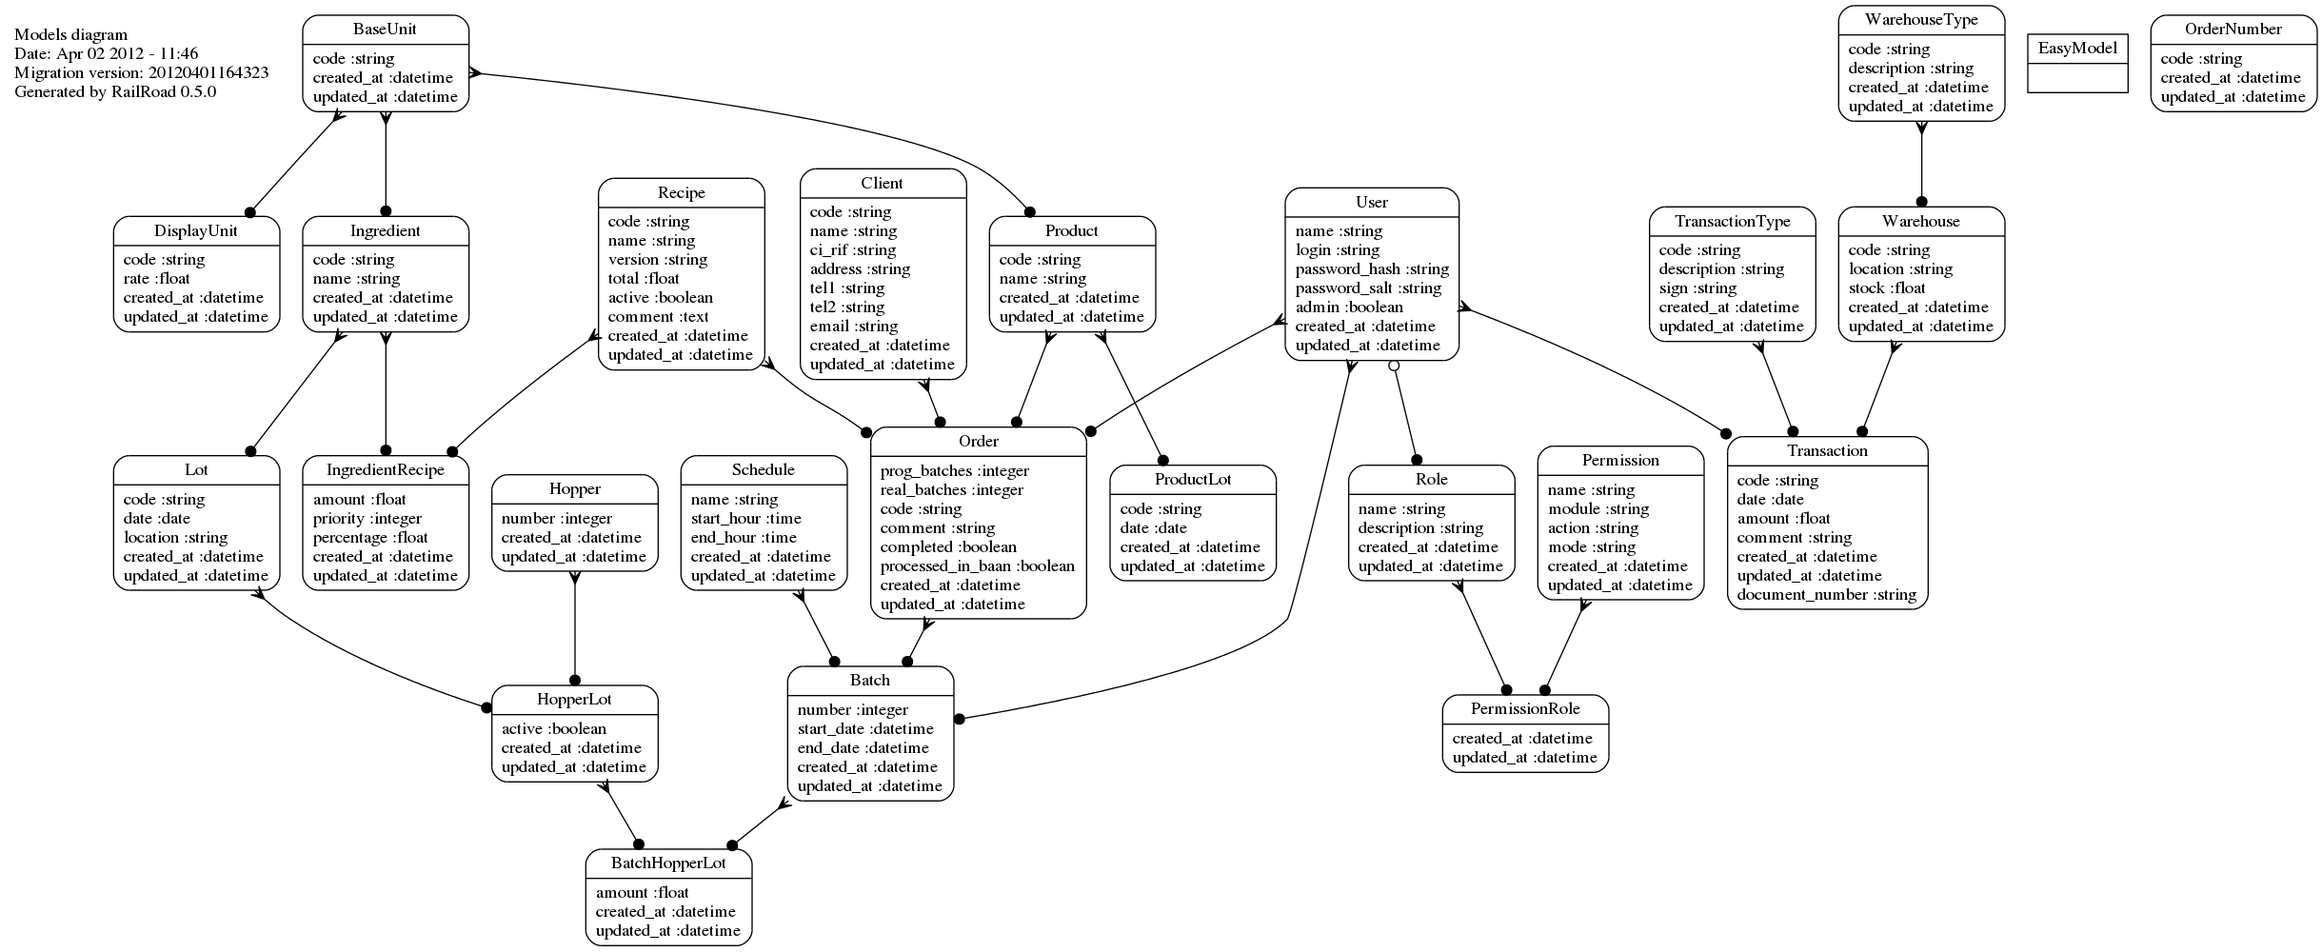
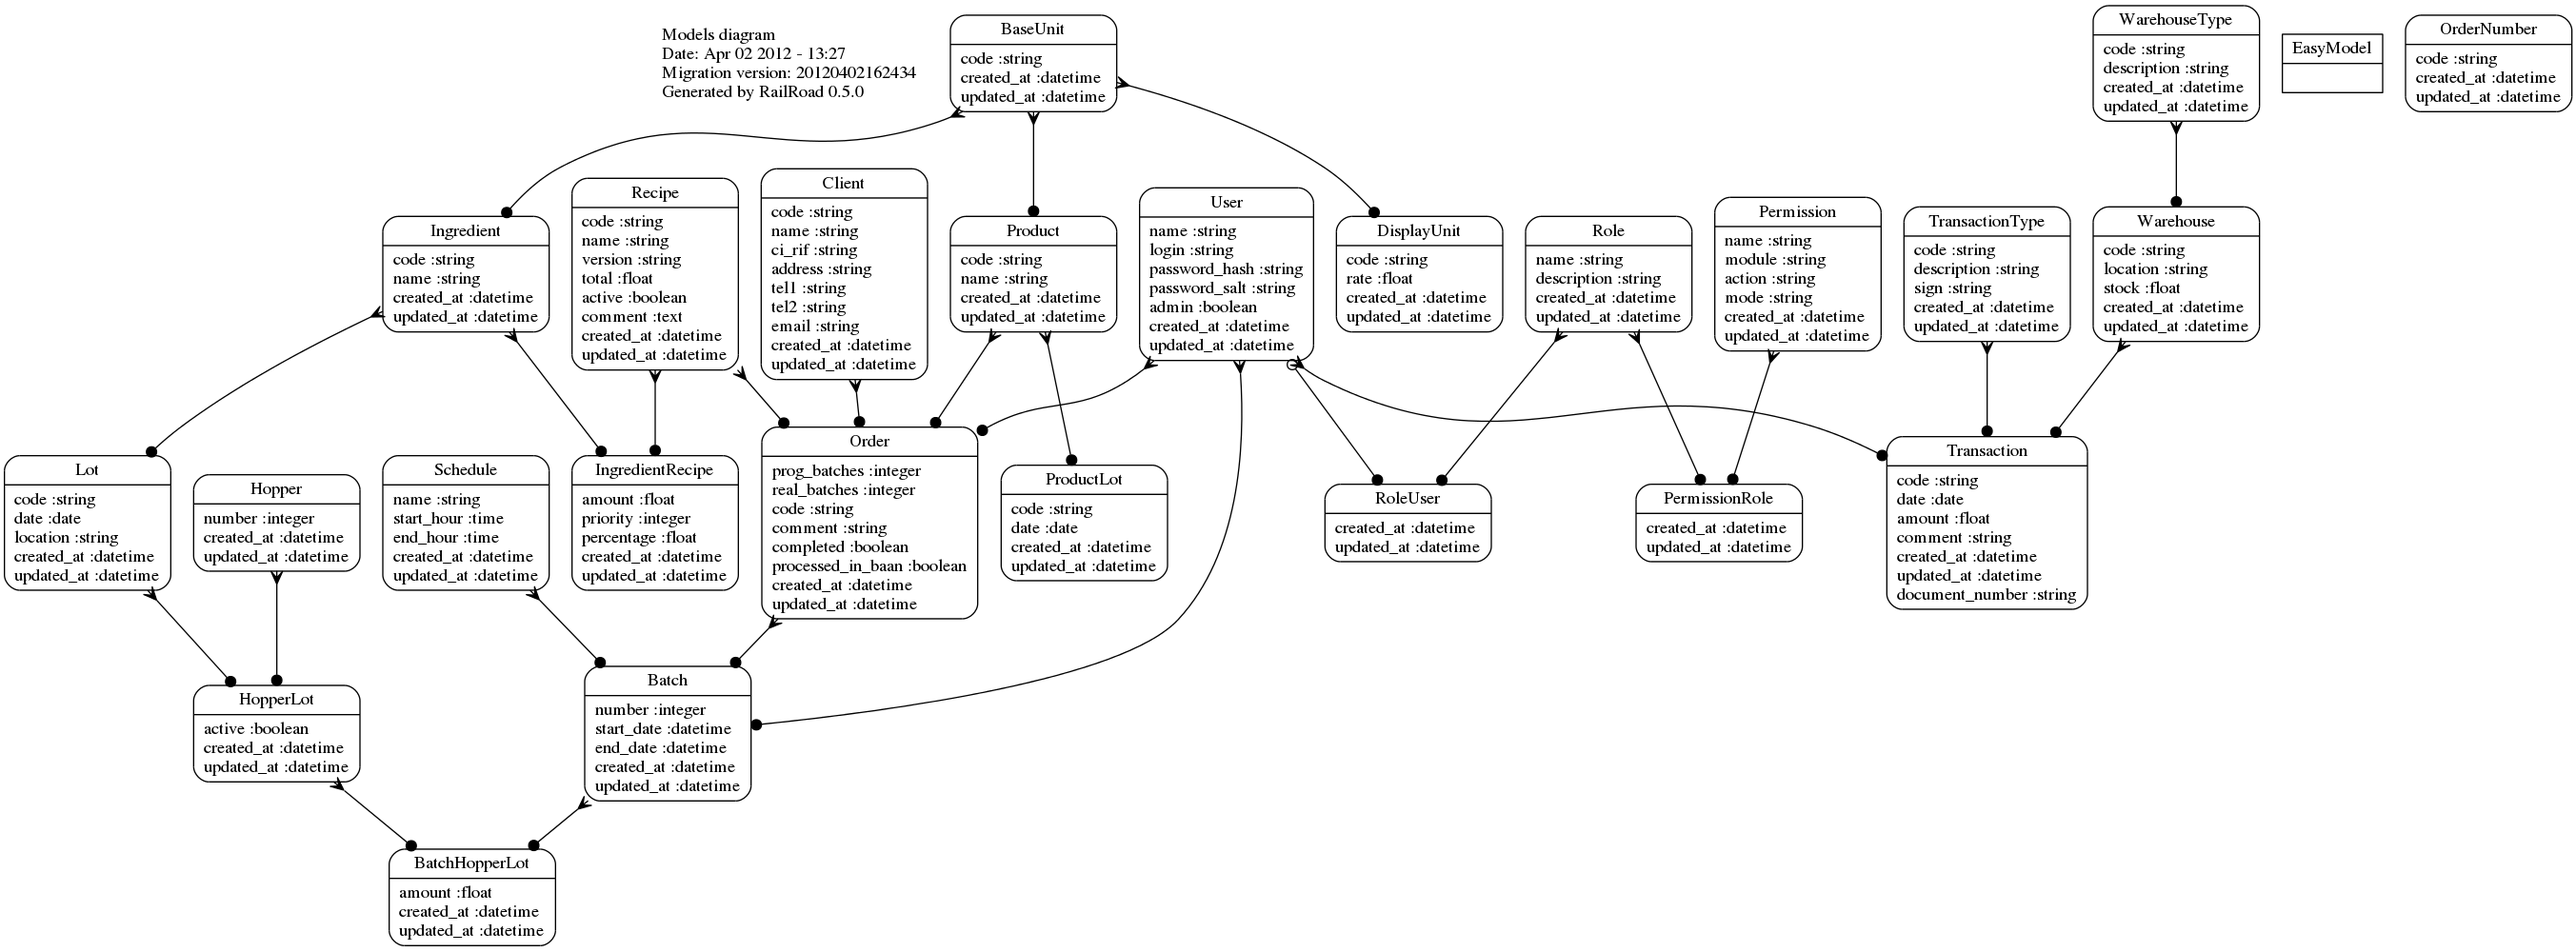
Implemented first approach of user privileges (global: for modules access)

diff --git a/app/models/user.rb b/app/models/user.rb
@@ -2,7 +2,7 @@ class User < ActiveRecord::Base
   has_many :order
   has_many :batch
   has_many :transaction
-  has_one :role
+  has_one :role_user
 
   validates_uniqueness_of :login
   validates_presence_of :name, :login
@@ -13,13 +13,16 @@ class User < ActiveRecord::Base
   attr_accessor :password, :password_confirmation
   attr_protected :id, :password_salt
 
+  CONSULT_ACTIONS = ['index']
+  MODIFY_ACTIONS = ['edit', 'update']
+
   def self.auth(login, password)
     user = User.find(:first, :conditions =>["login = ?", login])
     return nil if user.nil?
     return user if User.encrypt(password, user.password_salt) == user.password_hash
     return nil
   end
-  
+
   def password=(pass)
     return if pass.blank?
     @password = pass
@@ -27,8 +30,24 @@ class User < ActiveRecord::Base
     self.password_hash = User.encrypt(pass, self.password_salt)
   end
 
+  def has_permission?(controller, action)
+    valid = false
+    permission_roles = PermissionRole.find_with_permissions(self.role_user.role.id, controller)
+    permission_roles.each do |pm|
+      puts "action: #{action}"
+      puts "permission.action: #{pm.permission.action} - permission.module: #{pm.permission.module}"
+      if pm.permission.action == 'consult' and CONSULT_ACTIONS.include?(action)
+        valid = true
+      elsif pm.permission.action == 'modify' and MODIFY_ACTIONS.include?(action)
+        valid = true
+      end
+      return true if valid
+    end
+    return false
+  end
+
   private
-  
+
   def validate_password
     return true if @password.blank? and @password_confirmation.blank? and !self.new_record?
     errors.add(:password, "can't be blank") if @password.blank?
@@ -37,15 +56,15 @@ class User < ActiveRecord::Base
     errors.add(:password_confirmation, "doesn't match") if @password != @password_confirmation
     return false if errors.size > 0
   end
-  
+
   protected
-  
+
   def self.encrypt(pass, salt)
     return Digest::SHA256.hexdigest(pass + salt)
   end
-  
+
   def self.generate_salt
     return [Array.new(6){rand(256).chr}.join].pack("m").chomp
   end
-  
+
 end

diff --git a/app/controllers/application_controller.rb b/app/controllers/application_controller.rb
@@ -7,8 +7,8 @@ class ApplicationController < ActionController::Base
 
   # Scrub sensitive parameters from your log
   # filter_parameter_logging :password
-  before_filter :check_authentication
-  
+  before_filter :check_authentication, :check_permissions
+
   helper :flash
   helper :modal
   include ModalHelper::Modal
@@ -30,5 +30,15 @@ class ApplicationController < ActionController::Base
       redirect_to :controller=>'sessions', :action=>'index'
     end
   end
-  
+
+  def check_permissions
+    return true if (controller_name == 'sessions')
+    granted = session[:user].has_permission?(controller_name, action_name)
+    return true if granted
+    flash[:notice] = "No tiene permiso para acceder a ese recurso"
+    flash[:type] = 'error'
+    request.env["HTTP_REFERER"] ? (redirect_to :back) : (redirect_to :action=>'show', :controller=>'sessions')
+    return false
+  end
+
 end

diff --git a/db/schema.rb b/db/schema.rb
@@ -10,7 +10,7 @@
 #
 # It's strongly recommended to check this file into your version control system.
 
-ActiveRecord::Schema.define(:version => 20120401164323) do
+ActiveRecord::Schema.define(:version => 20120402162434) do
 
   create_table "bases_units", :force => true do |t|
     t.string   "code",       :null => false
@@ -185,6 +185,13 @@ ActiveRecord::Schema.define(:version => 20120401164323) do
   create_table "roles", :force => true do |t|
     t.string   "name",        :null => false
     t.string   "description", :null => false
+    t.datetime "created_at"
+    t.datetime "updated_at"
+  end
+
+  create_table "roles_users", :force => true do |t|
+    t.integer  "role_id"
+    t.integer  "user_id"
     t.datetime "created_at"
     t.datetime "updated_at"
   end

diff --git a/app/models/permission.rb b/app/models/permission.rb
@@ -1,3 +1,10 @@
 class Permission < ActiveRecord::Base
   has_many :permission_role
+
+  MODULES = ['batches', 'orders', 'recipes', 'hoppers', 'transactions', 'warehouses', 'lots', 'product_lots',
+    'ingredients', 'products', 'clients', 'transaction_types', 'schedules', 'users', 'reports', 'configuration']
+
+  def self.get_modules
+    return MODULES
+  end
 end

diff --git a/app/models/permission_role.rb b/app/models/permission_role.rb
@@ -1,4 +1,8 @@
 class PermissionRole < ActiveRecord::Base
   belongs_to :role
   belongs_to :permission
+
+  def self.find_with_permissions(role_id, controller)
+    return find :all, :conditions => {:role_id => role_id, :permissions => {:module => controller}}, :include => [:permission]
+  end
 end

diff --git a/db/migrate/20120402162434_create_roles_users.rb b/db/migrate/20120402162434_create_roles_users.rb
@@ -1,0 +1,13 @@
+class CreateRolesUsers < ActiveRecord::Migration
+  def self.up
+    create_table :roles_users do |t|
+      t.references :role
+      t.references :user
+      t.timestamps
+    end
+  end
+
+  def self.down
+    drop_table :roles_users
+  end
+end

diff --git a/test/unit/role_user_test.rb b/test/unit/role_user_test.rb
@@ -1,0 +1,8 @@
+require 'test_helper'
+
+class RoleUserTest < ActiveSupport::TestCase
+  # Replace this with your real tests.
+  test "the truth" do
+    assert true
+  end
+end

diff --git a/app/models/role.rb b/app/models/role.rb
@@ -1,4 +1,4 @@
 class Role < ActiveRecord::Base
   has_many :permission_role
-  belongs_to :user
+  has_many :role_user
 end

diff --git a/app/models/role_user.rb b/app/models/role_user.rb
@@ -1,0 +1,4 @@
+class RoleUser < ActiveRecord::Base
+  belongs_to :user
+  belongs_to :role
+end
